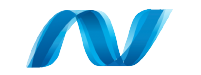
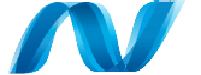
refactor: change png to svg file

diff --git a/index.html b/index.html
@@ -186,46 +186,46 @@
                                     <h4 class="content__skills-page--skill__title">Figma</h4>
                                 </div> -->
                                 <div class="content__skills-page--skill">
-                                    <img src="/assets/images/html.png" alt="html"
+                                    <img src="/assets/images/html.svg" alt="html"
                                         class="content__skills-page--skill__img">
                                     <h4 class="content__skills-page--skill__title">HTML</h4>
                                 </div>
                                 <div class="content__skills-page--skill">
-                                    <img src="/assets/images/css.png" alt="css"
+                                    <img src="/assets/images/css.svg" alt="css"
                                         class="content__skills-page--skill__img">
                                     <h4 class="content__skills-page--skill__title">CSS</h4>
                                 </div>
                                 <div class="content__skills-page--skill">
-                                    <img src="/assets/images/js.png" alt="js" class="content__skills-page--skill__img">
+                                    <img src="/assets/images/js.svg" alt="js" class="content__skills-page--skill__img">
                                     <h4 class="content__skills-page--skill__title">Javascript</h4>
                                 </div>
                                 <div class="content__skills-page--skill">
-                                    <img src="/assets/images/Typescript.png" alt="ts"
+                                    <img src="/assets/images/Typescript.svg" alt="ts"
                                         class="content__skills-page--skill__img">
                                     <h4 class="content__skills-page--skill__title">Typescript</h4>
                                 </div>
                                 <div class="content__skills-page--skill">
-                                    <img src="/assets/images/PHP.png" alt="php"
+                                    <img src="/assets/images/PHP.svg" alt="php"
                                         class="content__skills-page--skill__img">
                                     <h4 class="content__skills-page--skill__title">PHP</h4>
                                 </div>
                                 <div class="content__skills-page--skill">
-                                    <img src="/assets/images/Python.png" alt="python"
+                                    <img src="/assets/images/Python.svg" alt="python"
                                         class="content__skills-page--skill__img">
                                     <h4 class="content__skills-page--skill__title">Python</h4>
                                 </div>
                                 <div class="content__skills-page--skill">
-                                    <img src="/assets/images/c-plus-plus.png" alt="figma"
+                                    <img src="/assets/images/c-plus-plus.svg" alt="c++"
                                         class="content__skills-page--skill__img">
                                     <h4 class="content__skills-page--skill__title">C++</h4>
                                 </div>
                                 <div class="content__skills-page--skill">
-                                    <img src="/assets/images/c-sharp.png" alt="c-sharp"
+                                    <img src="/assets/images/c-sharp.svg" alt="c-sharp"
                                         class="content__skills-page--skill__img">
                                     <h4 class="content__skills-page--skill__title">C#</h4>
                                 </div>
                                 <div class="content__skills-page--skill">
-                                    <img src="/assets/images/Dart.png" alt="dart"
+                                    <img src="/assets/images/Dart.svg" alt="dart"
                                         class="content__skills-page--skill__img">
                                     <h4 class="content__skills-page--skill__title">Dart</h4>
                                 </div>
@@ -233,27 +233,27 @@
                             <h3 class="content__skills-page--framework-title reveal">Frameworks</h3>
                             <div class="content__skills-page--framework__wrapper">
                                 <div class="content__skills-page--framework">
-                                    <img src="/assets/images/physics.png" alt="react"
+                                    <img src="/assets/images/physics.svg" alt="react"
                                         class="content__skills-page--framework__img">
                                     <h4 class="content__skills-page--framework__title">React</h4>
                                 </div>
                                 <div class="content__skills-page--framework">
-                                    <img src="/assets/images/angular.png" alt="angular"
+                                    <img src="/assets/images/angular.svg" alt="angular"
                                         class="content__skills-page--framework__img">
                                     <h4 class="content__skills-page--framework__title">Angular</h4>
                                 </div>
                                 <div class="content__skills-page--framework">
-                                    <img src="/assets/images/nextjs-icon.png" alt="nextjs"
+                                    <img src="/assets/images/nextjs-icon.svg" alt="nextjs"
                                         class="content__skills-page--framework__img">
                                     <h4 class="content__skills-page--framework__title">Nextjs</h4>
                                 </div>
                                 <div class="content__skills-page--framework">
-                                    <img src="/assets/images/express.png" alt="expressjs"
+                                    <img src="/assets/images/express.svg" alt="expressjs"
                                         class="content__skills-page--framework__img">
                                     <h4 class="content__skills-page--framework__title">Expressjs</h4>
                                 </div>
                                 <div class="content__skills-page--framework">
-                                    <img src="/assets/images/Tailwind.png" alt="tailwind"
+                                    <img src="/assets/images/Tailwind.svg" alt="tailwind"
                                         class="content__skills-page--framework__img">
                                     <h4 class="content__skills-page--framework__title">Tailwind</h4>
                                 </div>
@@ -263,45 +263,60 @@
                                     <h4 class="content__skills-page--framework__title">Winforms/WPF</h4>
                                 </div>
                                 <div class="content__skills-page--framework">
-                                    <img src="/assets/images/flutter.png" alt="flutter"
+                                    <img src="/assets/images/flutter.svg" alt="flutter"
                                         class="content__skills-page--framework__img">
                                     <h4 class="content__skills-page--framework__title">Flutter</h4>
                                 </div>
+                                <!-- <div class="content__skills-page--framework">
+                                    <img src="/assets/images/ethereum.svg" alt="ethereum"
+                                        class="content__skills-page--framework__img">
+                                    <h4 class="content__skills-page--framework__title">Ethereum</h4>
+                                </div>
+                                <div class="content__skills-page--framework">
+                                    <img src="/assets/images/sui.svg" alt="sui"
+                                        class="content__skills-page--framework__img">
+                                    <h4 class="content__skills-page--framework__title">SUI</h4>
+                                </div>
+                                <div class="content__skills-page--framework">
+                                    <img src="/assets/images/odoo.svg" alt="odoo"
+                                        class="content__skills-page--framework__img">
+                                    <h4 class="content__skills-page--framework__title">Odoo</h4>
+                                </div> -->
                             </div>
                             <h3 class="content__skills-page--development_tool-title reveal">Development tools</h3>
                             <div class="content__skills-page--development_tool__wrapper">
                                 <div class="content__skills-page--development_tool">
-                                    <img src="/assets/images/GitHub.png" alt="github"
+                                    <img src="/assets/images/GitHub.svg" alt="github"
                                         class="content__skills-page--development_tool__img">
                                     <h4 class="content__skills-page--development_tool__title">Github</h4>
                                 </div>
                                 <div class="content__skills-page--development_tool">
-                                    <img src="/assets/images/Postman.png" alt="postman"
+                                    <img src="/assets/images/Postman.svg" alt="postman"
                                         class="content__skills-page--development_tool__img">
                                     <h4 class="content__skills-page--development_tool__title">Postman</h4>
                                 </div>
                                 <div class="content__skills-page--development_tool">
-                                    <img src="/assets/images/MSS.png" alt="Mss"
+                                    <img src="/assets/images/MSS.svg" alt="Mss"
                                         class="content__skills-page--development_tool__img">
                                     <h4 class="content__skills-page--development_tool__title">Microsoft SQL Server</h4>
                                 </div>
                                 <div class="content__skills-page--development_tool">
-                                    <img src="/assets/images/vs.png" alt="vs"
+                                    <img src="/assets/images/vs.svg" alt="vs"
                                         class="content__skills-page--development_tool__img">
                                     <h4 class="content__skills-page--development_tool__title">Visual studio</h4>
                                 </div>
                                 <div class="content__skills-page--development_tool">
-                                    <img src="/assets/images/vsc.png" alt="vsc"
+                                    <img src="/assets/images/vsc.svg" alt="vsc"
                                         class="content__skills-page--development_tool__img">
                                     <h4 class="content__skills-page--development_tool__title">Visual studio code</h4>
                                 </div>
                                 <div class="content__skills-page--development_tool">
-                                    <img src="/assets/images/mongodb.png" alt="mongodbcompass"
+                                    <img src="/assets/images/mongodb.svg" alt="mongodbcompass"
                                         class="content__skills-page--development_tool__img">
                                     <h4 class="content__skills-page--development_tool__title">Mongodb compass</h4>
                                 </div>
                                 <div class="content__skills-page--development_tool">
-                                    <img src="/assets/images/figma.png" alt="figma"
+                                    <img src="/assets/images/figma.svg" alt="figma"
                                         class="content__skills-page--development_tool__img">
                                     <h4 class="content__skills-page--development_tool__title">Figma</h4>
                                 </div>
